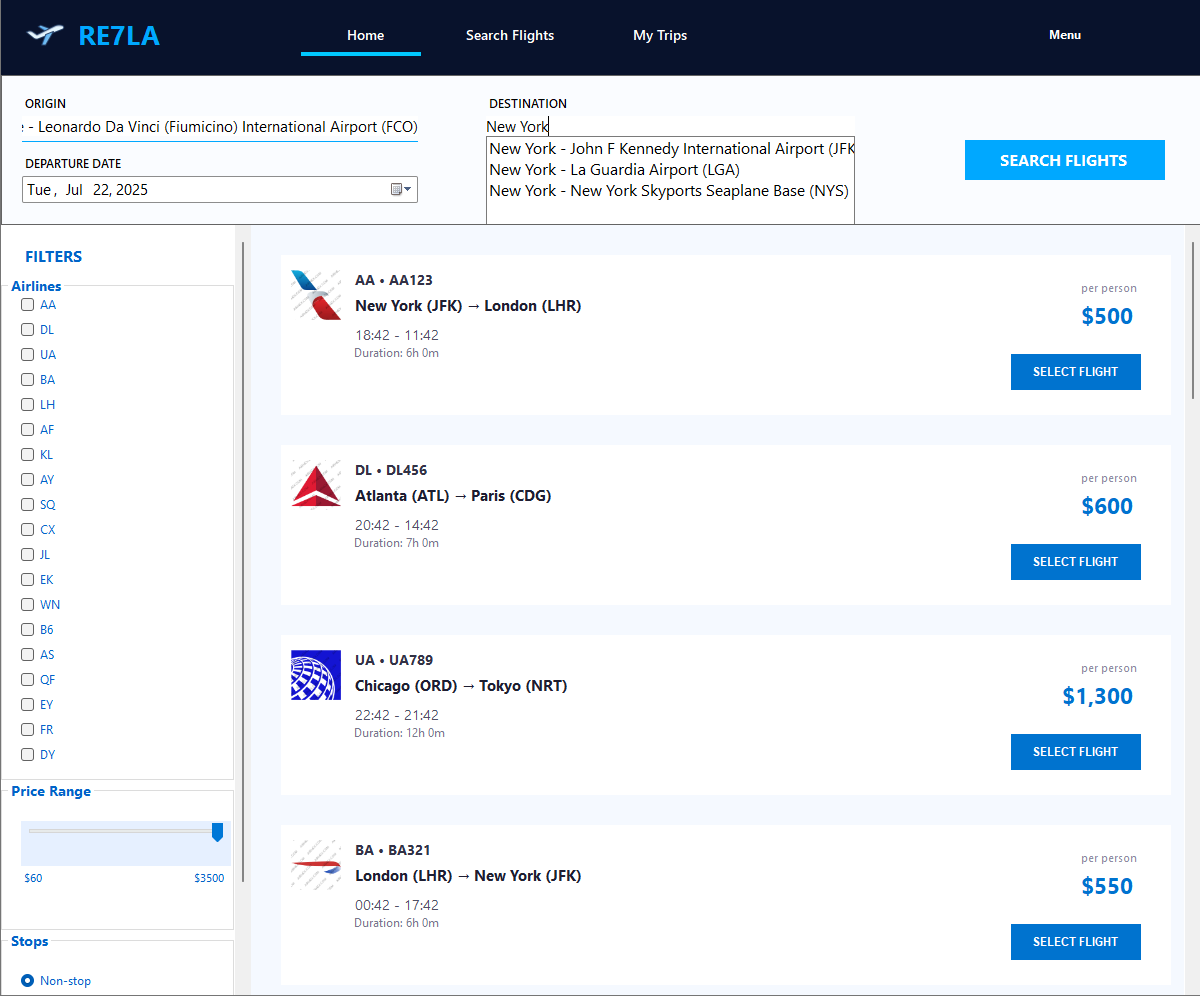
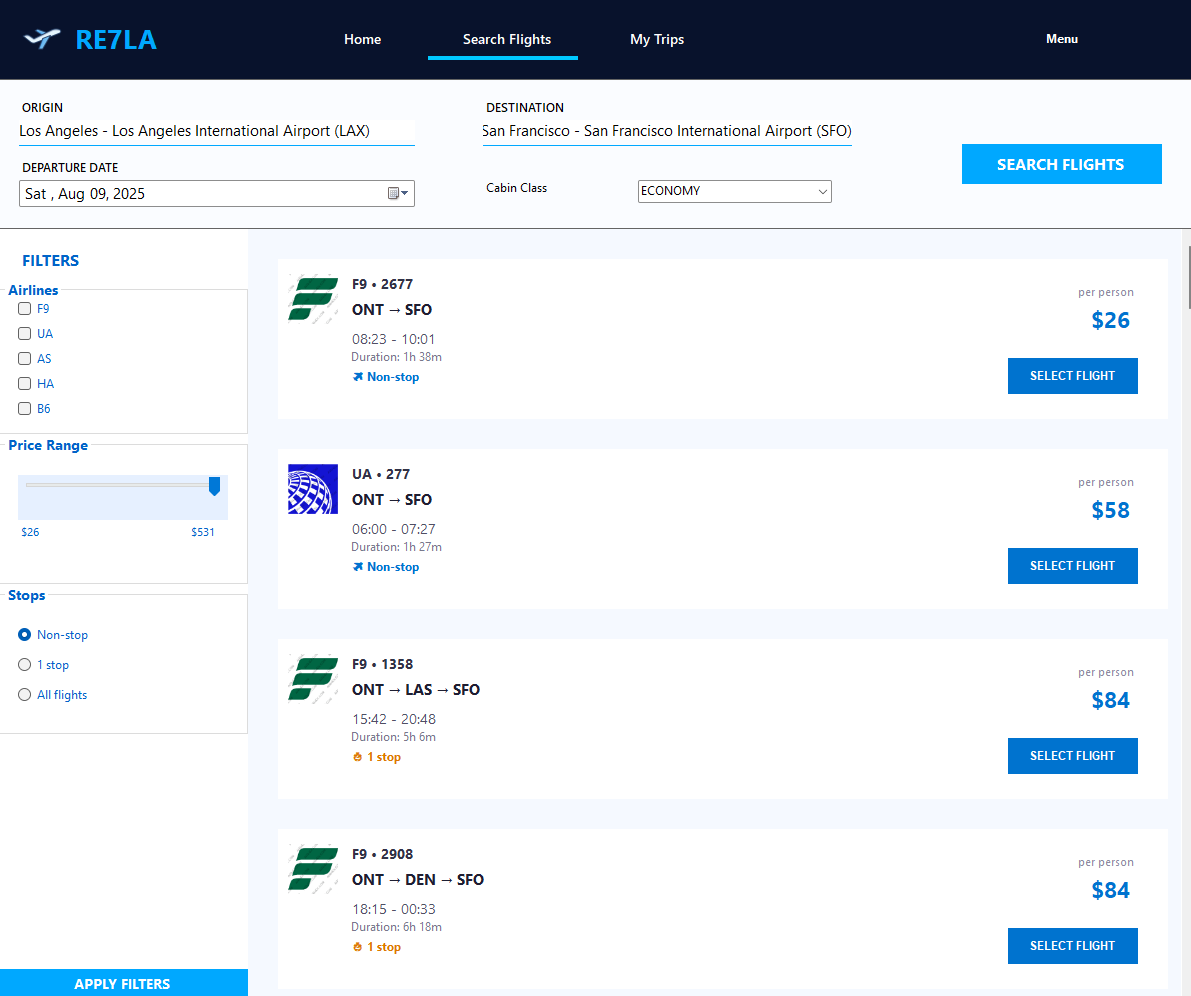
Updated SearchFlight Screanshoot

diff --git a/Controls/MytripControl.cs b/Controls/MytripControl.cs
@@ -36,8 +36,6 @@ namespace FlightBookingSystem.Controls
             try
             {
                 bookingsPanel.Controls.Clear();
-                loadingIndicator.Visible = true;
-
                 var userBookings = await Task.Run(() => _bookingService.GetUserBookings(_currentUser.Id));
 
                 if (!userBookings.Any())
@@ -139,7 +137,8 @@ namespace FlightBookingSystem.Controls
                 BackColor = Color.FromArgb(0, 115, 207),
                 FlatStyle = FlatStyle.Flat,
                 Font = new Font("Arial", 9, FontStyle.Bold),
-                Tag = booking.Id
+                Tag = booking.Id,
+                Visible = booking.Status == "Confirmed" 
             };
             manageButton.FlatAppearance.BorderSize = 0;
             manageButton.Click += (s, e) => BookingManaged?.Invoke(this, (int)manageButton.Tag);
